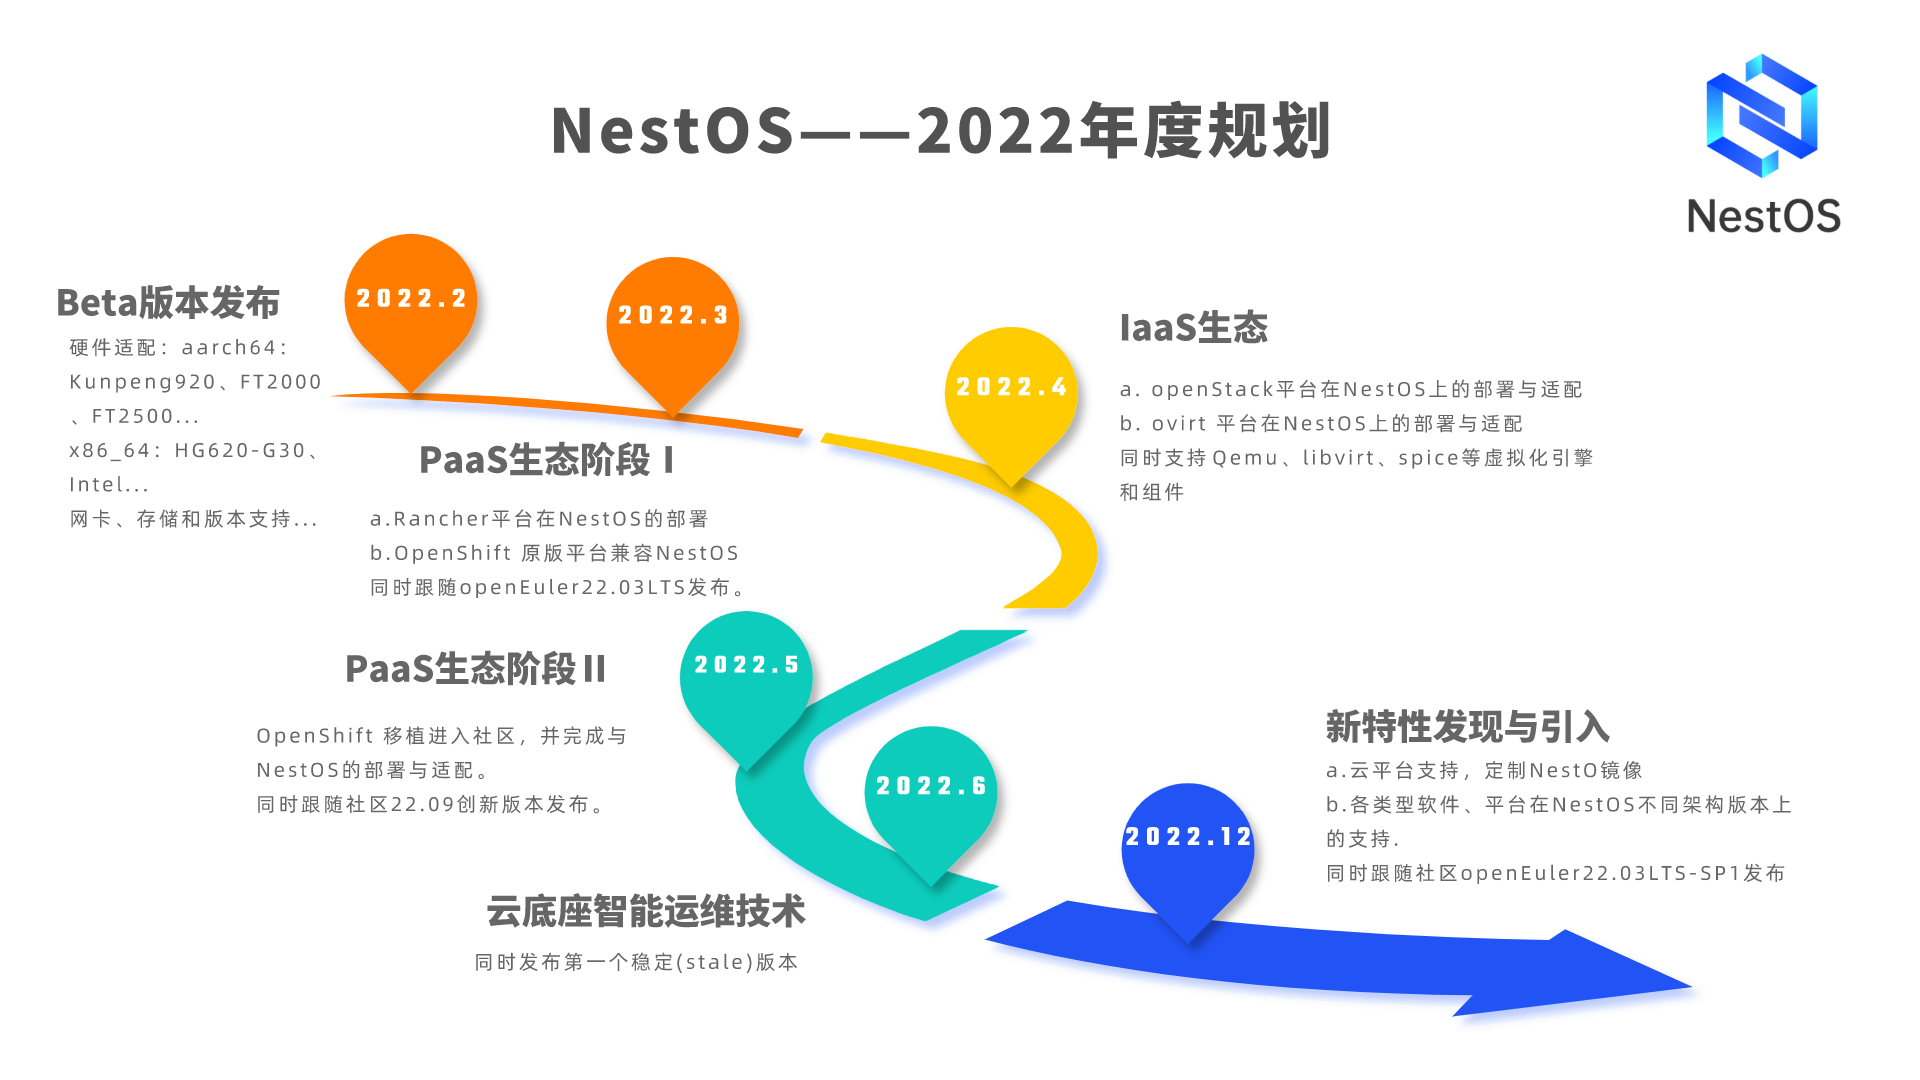
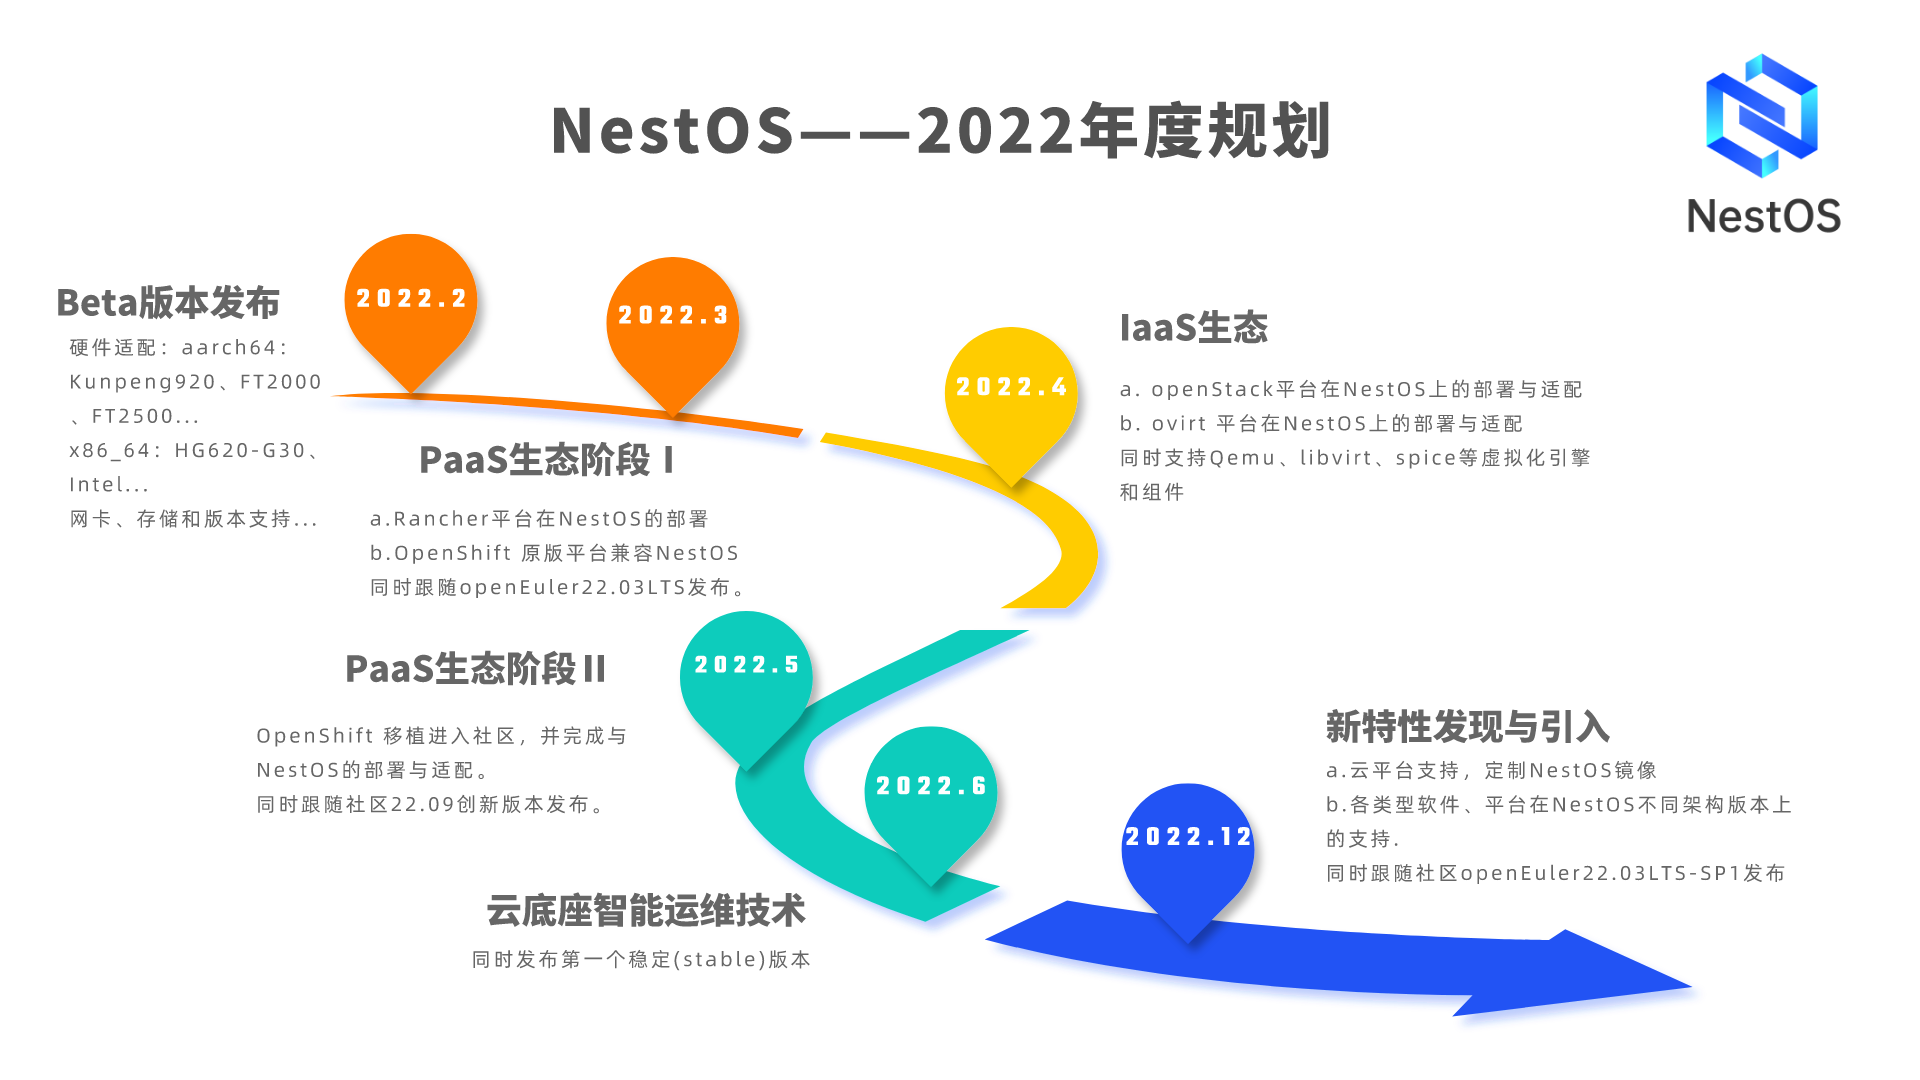
更新NestOS官网和roadmap

Changed region(s): [[0.25, 0.825, 0.4375, 0.9167], [0.625, 0.3972, 0.8438, 0.4278], [0.8125, 0.7028, 0.875, 0.7333]]

diff --git a/README.md b/README.md
@@ -1,5 +1,7 @@
 # NestOS
 
+#### 目前NestOS已跟随openEuler 22.03 LTS版本同步发布，欢迎各位爱好者下载体验！下载链接请访问[NestOS官网](https://nestos.org.cn/)
+
 #### 介绍
 NestOS是一款在openEuler社区CloudNative sig组孵化的云底座操作系统，专注于提供最佳的容器主机，大规模下安全的运行容器化工作负载。
 
